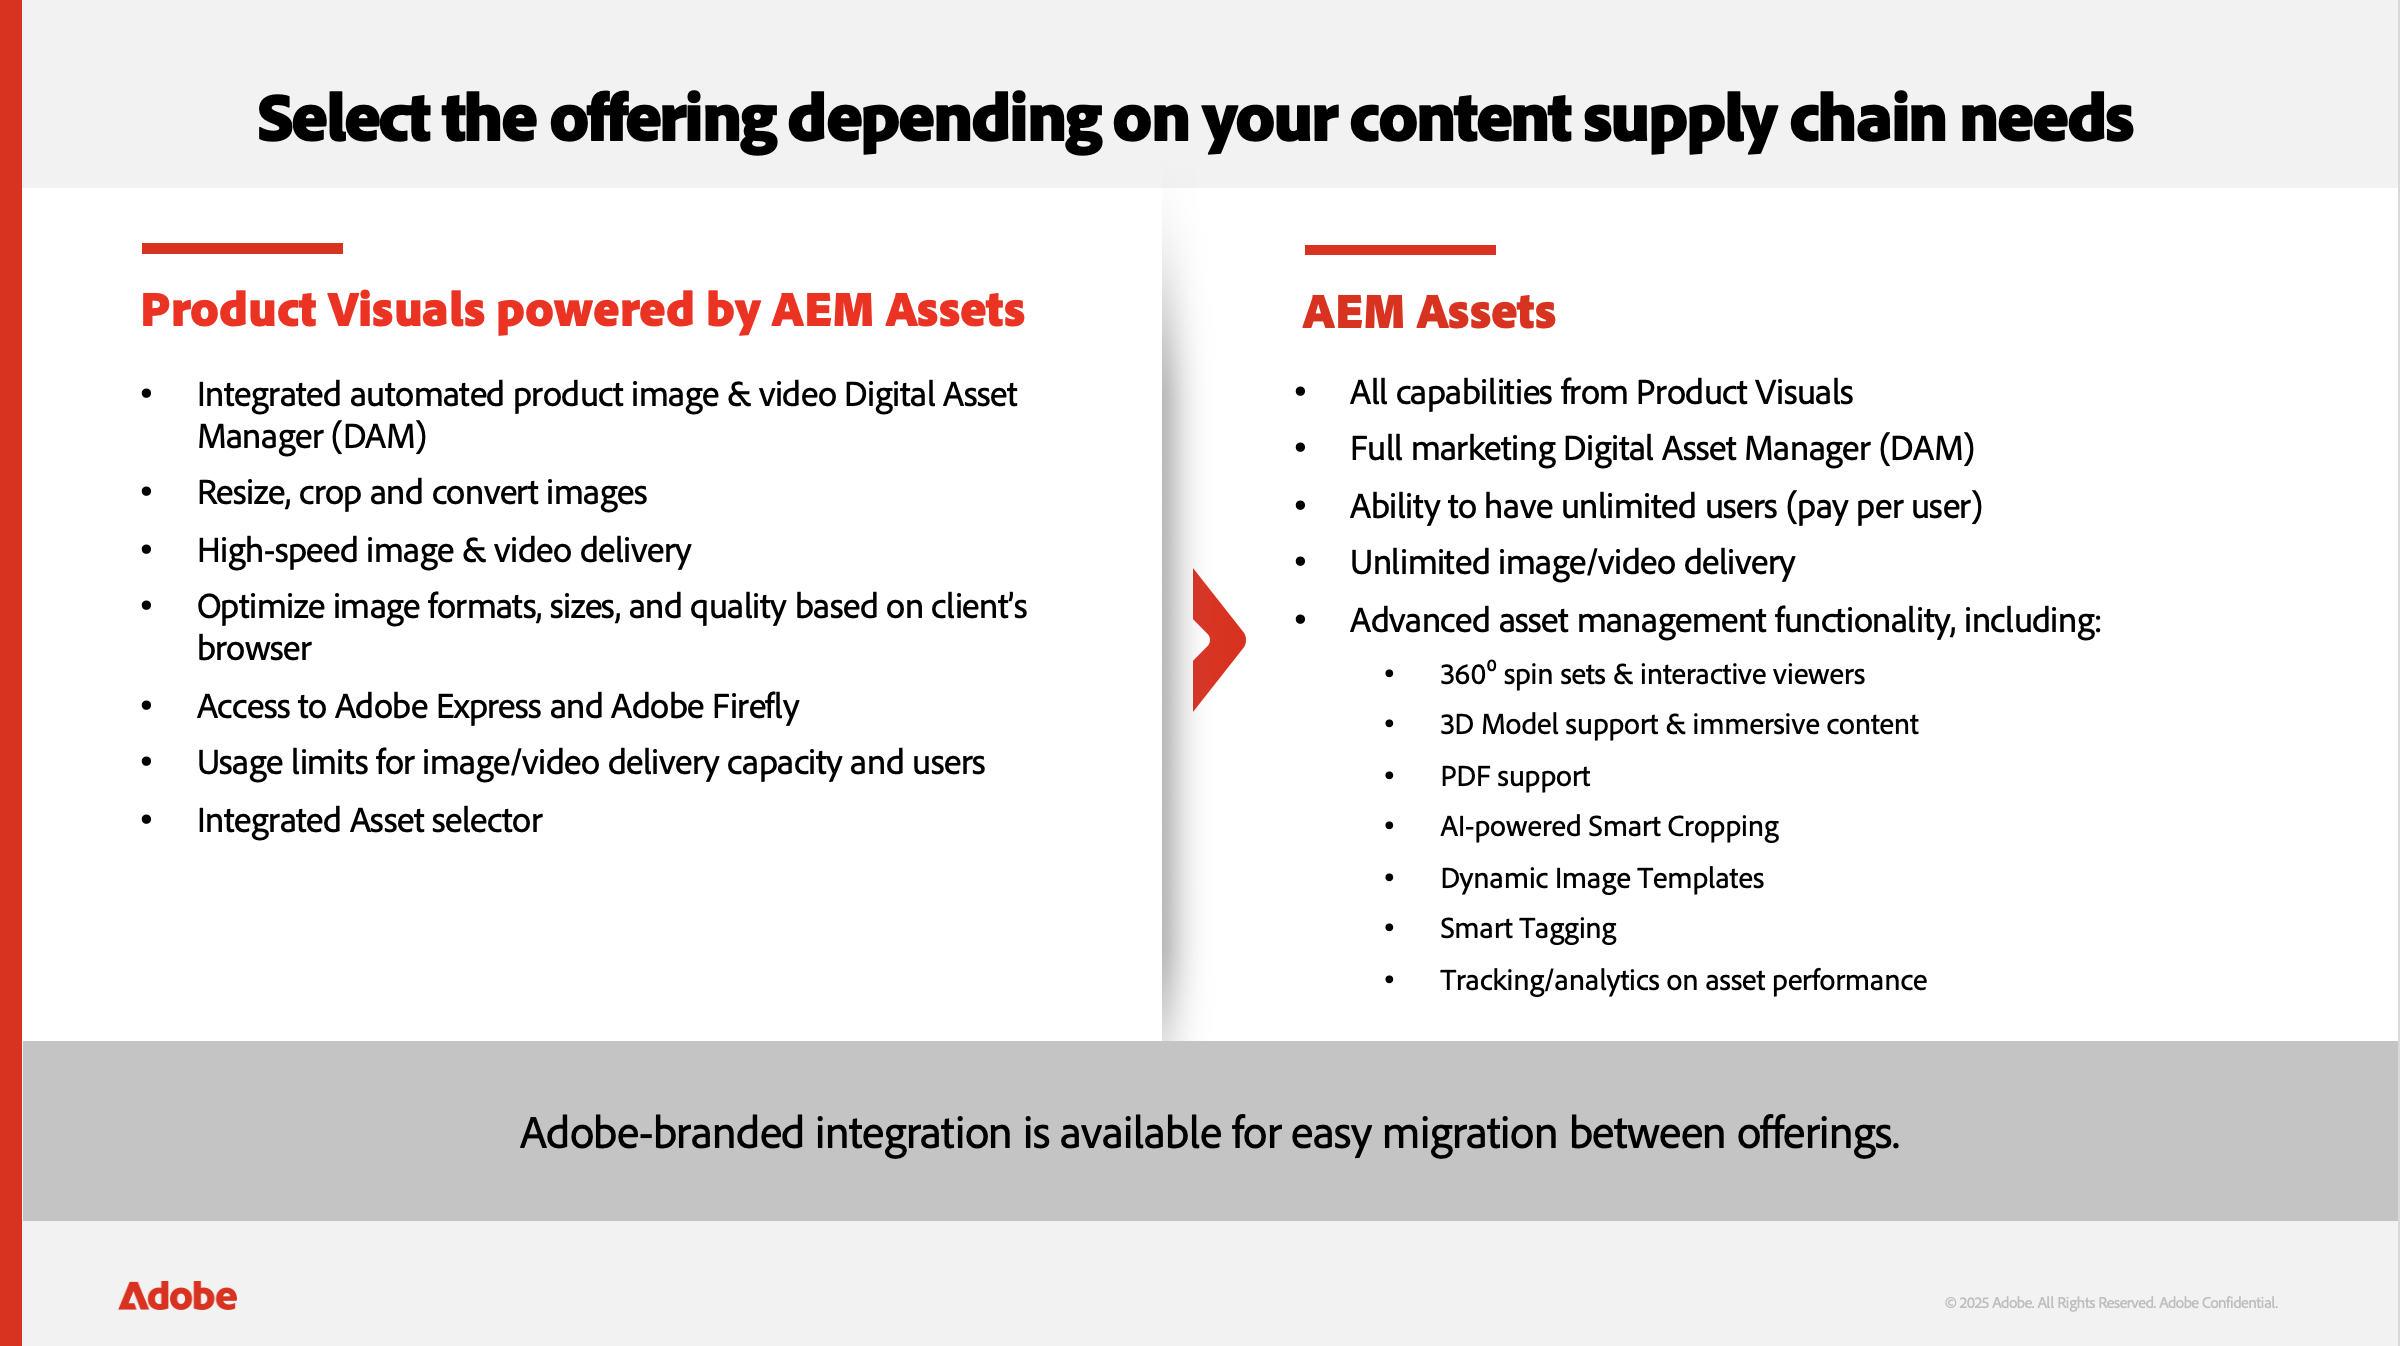
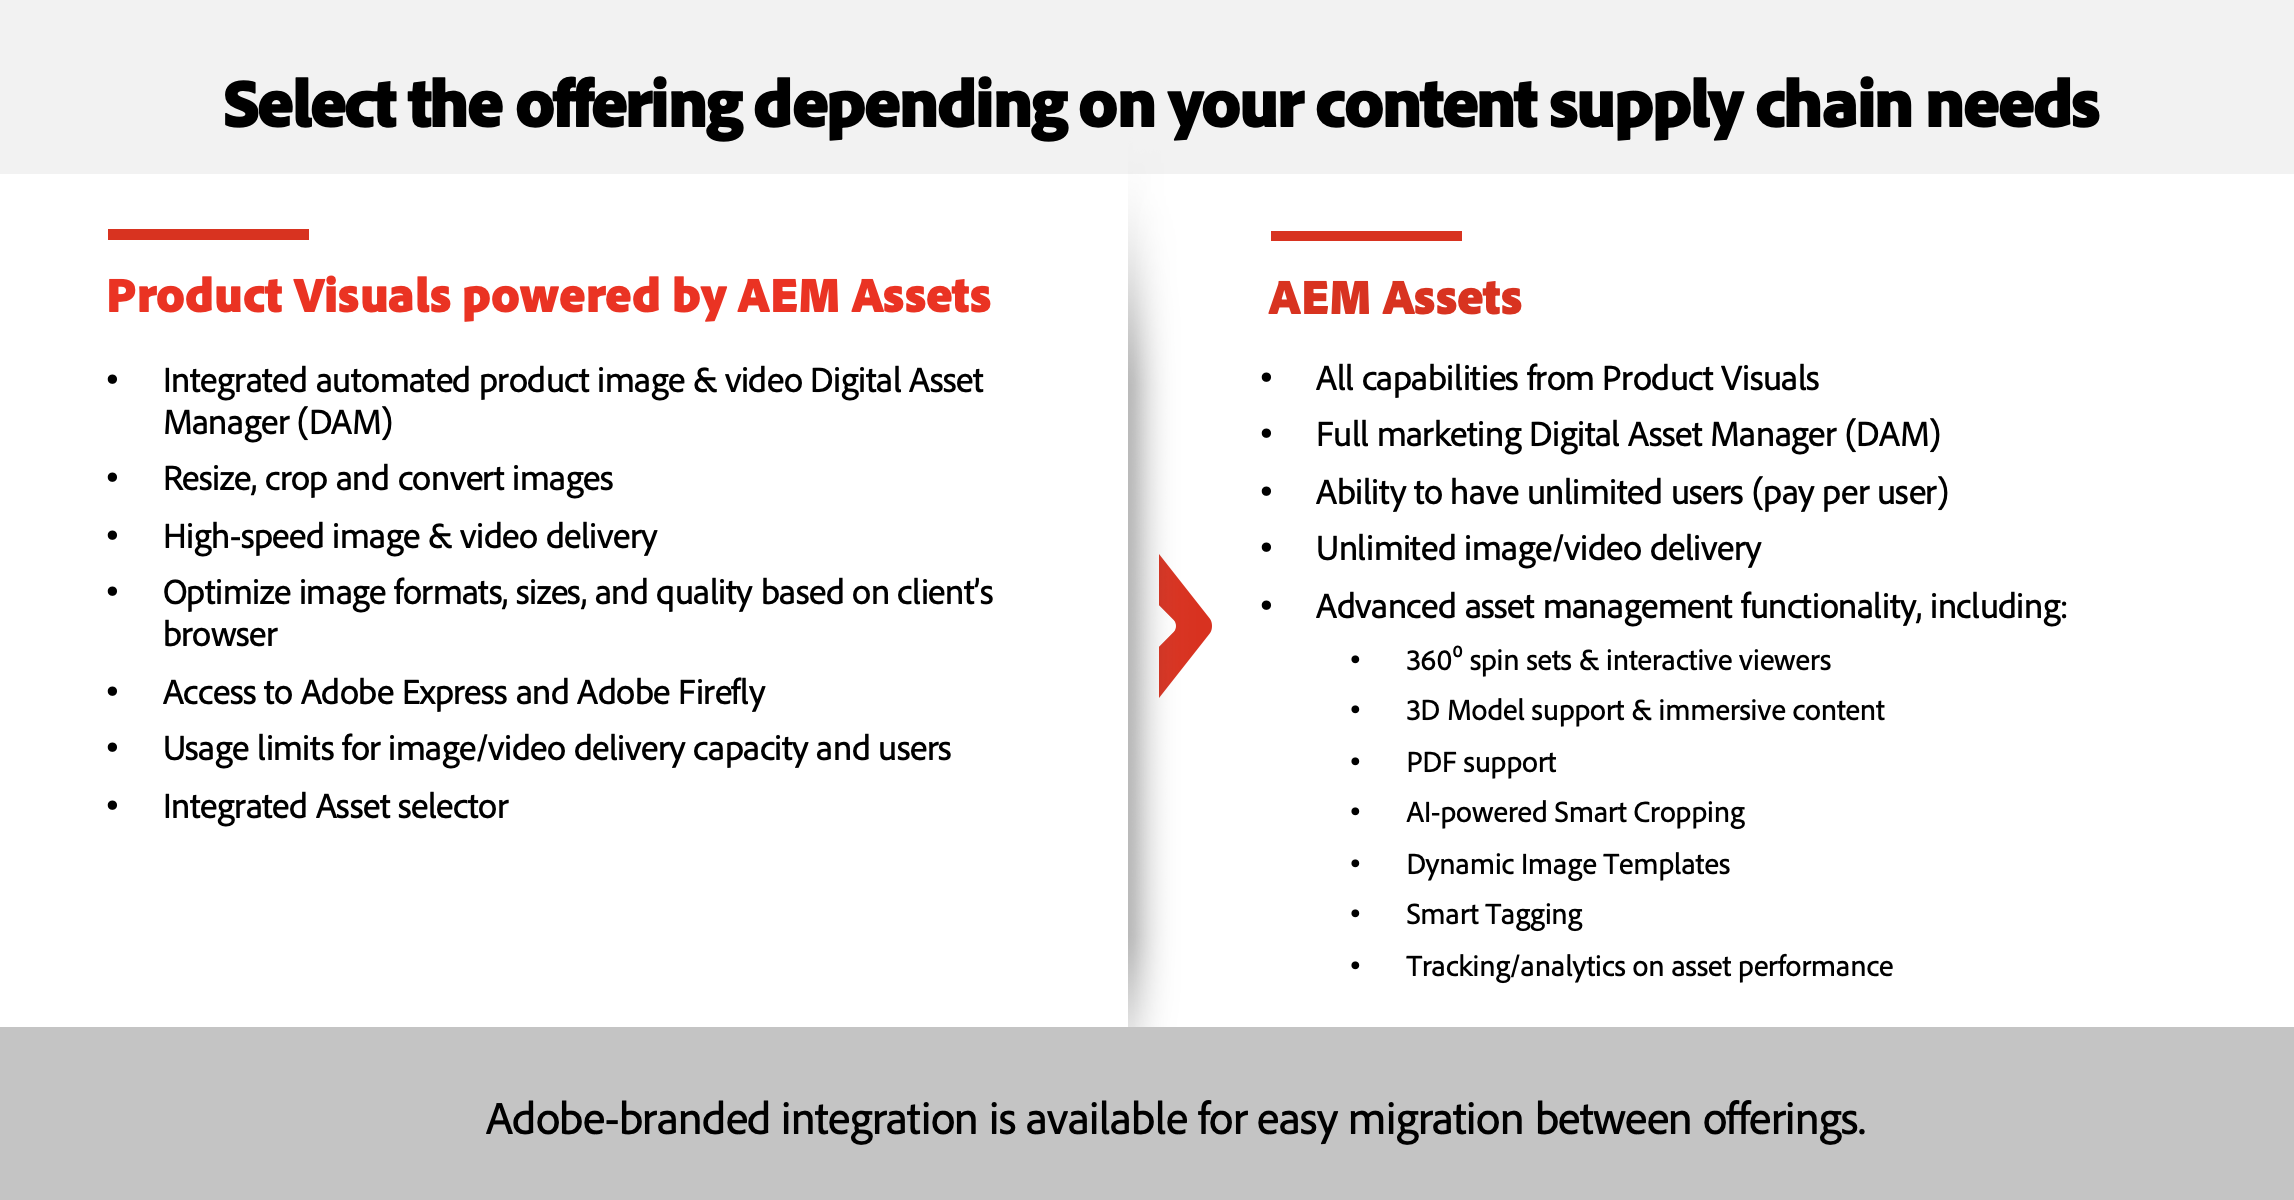
reviewed requirements and added again image

Changed region(s): [[0.0, 0.0, 1.0, 1.0], [0.0929, 0.0617, 0.9285, 0.1233]]

diff --git a/help/aem-assets-integration/overview.md b/help/aem-assets-integration/overview.md
@@ -10,7 +10,7 @@ The demand for personalized content is rapidly increasing while marketing budget
 
 Consider a retailer with 1,000 products. Even before factoring in attribute variations, the number of required digital assets expands significantly when considering different regions, customer segments, and personalization efforts. This can lead to an overwhelming number of asset variations, reaching into the millions.
 
-![check](assets/product-visuals-example.png)
+![overview](assets/product-visuals-example.png){width="700" zoomable="yes"}
 
 The AEM Assets Integration addresses this challenge by automating asset management workflows. The integration ensures that digital assets, such as product images and marketing content, are dynamically linked to the appropriate merchandising entities, including products and categories in Adobe Commerce, based on SKU or other key attributes. This process streamlines operations and enhances efficiency by enabling:
 
@@ -28,9 +28,7 @@ To leverage this integration either with Product Visuals or AEM Assets, business
 
 >[!TAB Product Visuals]
 
-[!BADGE SaaS only]{type=Positive url="https://experienceleague.adobe.com/en/docs/commerce/user-guides/product-solutions" tooltip="Applies to Adobe Commerce as a Cloud Service and Adobe Commerce Optimizer projects only (Adobe-managed SaaS infrastructure)."}  Active licenses for Adobe Commerce, Product Visuals powered by AEM Assets, and [AEM Dynamic Media](https://experienceleague.adobe.com/en/docs/experience-manager-65/content/assets/dynamic/administering-dynamic-media).
-
-[!BADGE SaaS only]{type=Positive url="https://experienceleague.adobe.com/en/docs/commerce/user-guides/product-solutions" tooltip="Applies to Adobe Commerce as a Cloud Service and Adobe Commerce Optimizer projects only (Adobe-managed SaaS infrastructure)."} Adobe Experience Manager is provisioned with [Adobe Experience Manager Assets as a Cloud Service](https://experienceleague.adobe.com/en/docs/experience-manager-cloud-service/content/assets/overview)
+[!BADGE SaaS only]{type=Positive url="https://experienceleague.adobe.com/en/docs/commerce/user-guides/product-solutions" tooltip="Applies to Adobe Commerce as a Cloud Service and Adobe Commerce Optimizer projects only (Adobe-managed SaaS infrastructure)."}  Active licenses for Adobe Commerce, Product Visuals powered by AEM Assets, and [AEM Dynamic Media](https://experienceleague.adobe.com/en/docs/experience-manager-65/content/assets/dynamic/administering-dynamic-media) (These licenses are available out-of-the-box with [!DNL Adobe Commerce as a Cloud Service] and [!DNL Adobe Commerce Optimizer]).
 
 >[!TAB AEM Assets]
 

diff --git a/help/cloud-service/overview.md b/help/cloud-service/overview.md
@@ -63,49 +63,8 @@ Alternatively, the native capabilities within [!DNL Adobe Commerce as a Cloud Se
 
 The following image shows both offerings, depending on your content supply chain needs:
 
->[!BEGINTABS]
 
->[!TAB Product Visuals]
-
-- Integrated automated product image & video Digital Asset Manager (DAM)
-
-- Resize, crop and convert images
-
-- High-speed image & video delivery
-
-- Optimize image formats, sizes, and quality based on client's browser
-
-- Access to Adobe Express and Adobe Firefly
-
-- Usage limits for image/video delivery capacity and users
-
-- Integrated Asset selector
-
->[!TAB AEM Assets]
-
-- All capabilities from Product Visuals
-
-- Full marketing DAM to power more than your ecommerce site
-
-- Ability to have unlimited users (pay per user)
-
-- Unlimited image/video delivery 
-
-- Advanced asset management functionality, including:
-  
-  - 3D Model support & immersive content
-  
-  - PDF support
-  
-  - AI-powered Smart Cropping
-  
-  - Dynamic Image Templates
-  
-  - Smart Tagging
-  
-  - Tracking/analytics on asset performance
-
->[!ENDTABS]
+![check](assets/compare-offerings.png){width="700" zoomable="yes"}
 
 See the [AEM Assets integration](../aem-assets-integration/overview.md) guide to learn more about how to integrate Product Visuals powered by AEM Assets with [!DNL Adobe Commerce as a Cloud Service].
 
